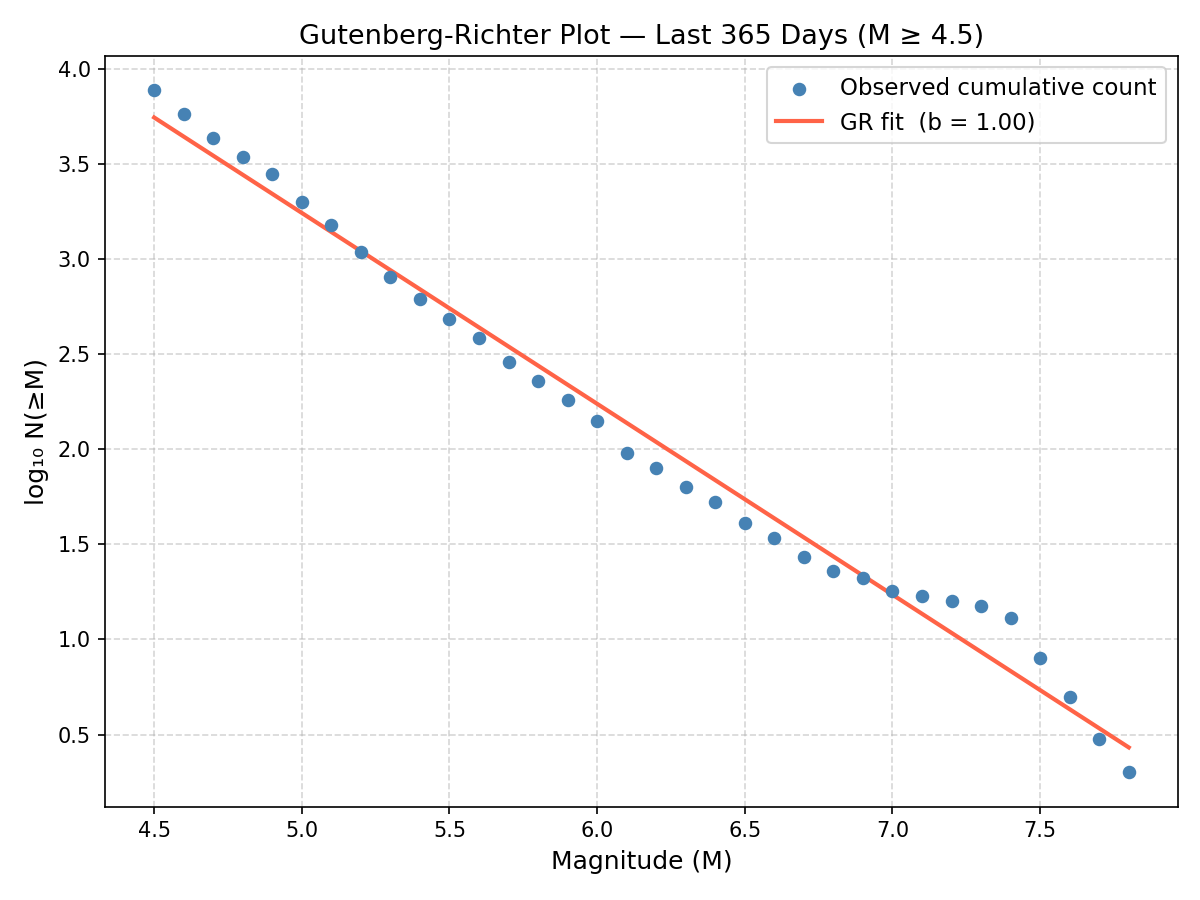
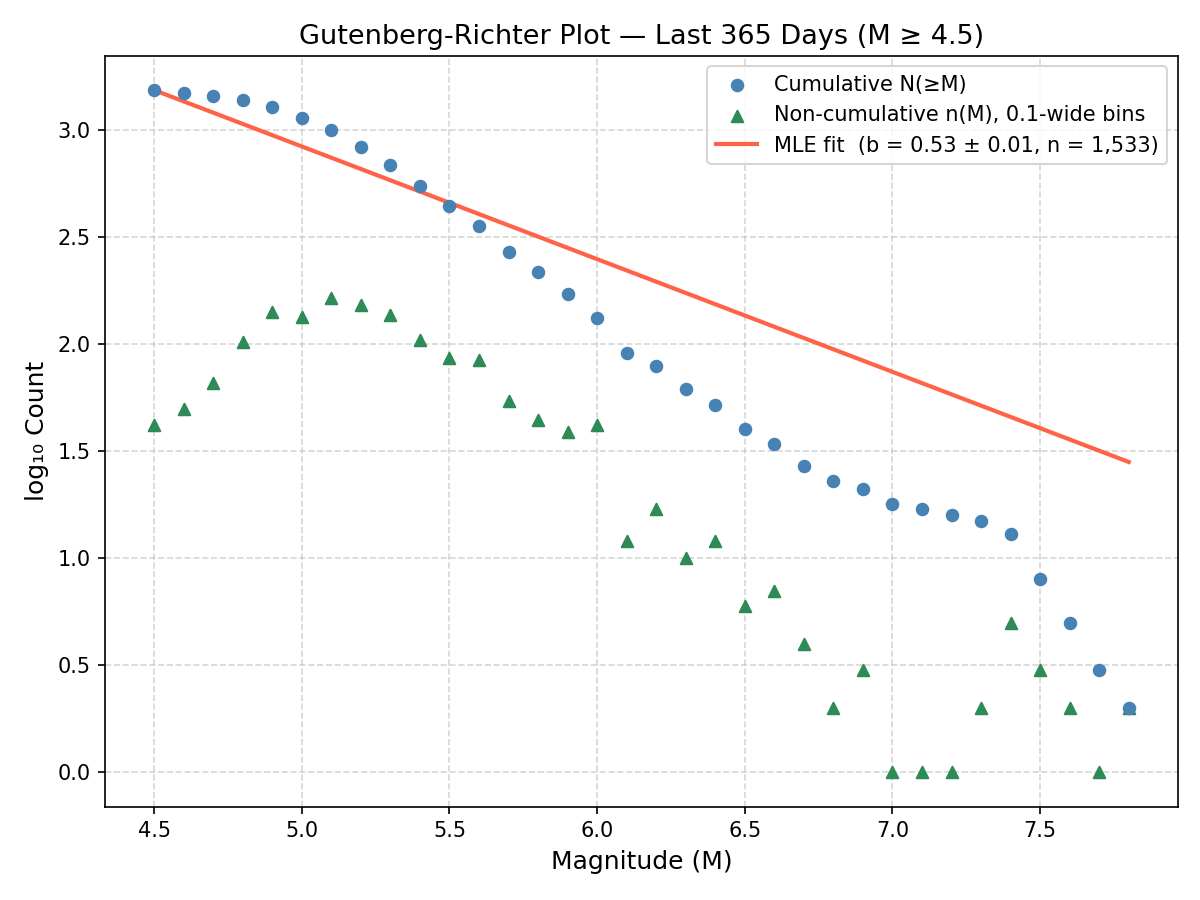
Swap the GR b-value fit to Aki-Utsu MLE with Shi-Bolt error and magType filtering
- plot_gutenberg_richter() now fits b via the Aki-Utsu maximum-likelihood
  estimator by default (FIT_METHOD = "mle" | "ols", computed from event
  magnitudes at/above Mc rather than binned counts), reports the Shi & Bolt
  (1982) standard error and n in the legend, and overlays a non-cumulative
  (unfit) frequency count for comparison against the cumulative curve.
- parse_to_dataframe() now captures magType; a new filter_by_magnitude_type()
  restricts the GR fit to the moment-magnitude family (MAG_TYPES, default
  mww/mwc/mwb/mwr/mw) and logs what got dropped. Filtering happens
  client-side after fetch, since the FDSN endpoint has no magType param.
  The map, depth histogram, aftershock series, and Benioff plot still see
  every event.
- Fit stats are written to gr_stats.json and archived into snapshots/
  alongside the images.
- README: Method section now describes the MLE/Shi-Bolt approach instead of
  np.polyfit, and the interactive-map line no longer claims a GitHub Pages
  deployment that isn't actually live — it now describes index.html and the
  GeoJSON viewer link accurately.
- Adds TODO 7 / roadmap item: fit ETAS to aftershock sequences instead of
  the current Omori-Utsu curve fit.

diff --git a/earthquake_explorer.py b/earthquake_explorer.py
@@ -32,6 +32,22 @@ import requests
 MIN_MAGNITUDE = 4.5    # only fetch quakes at or above this magnitude
 DAYS_BACK     = 365    # how many days of history to fetch
 
+# --- Gutenberg-Richter fit method -----------------------------------------------
+# "mle" uses the Aki-Utsu maximum-likelihood b-value estimator (recommended —
+# unlike the OLS fit it doesn't require binning the data, isn't skewed by
+# how the tail is binned, and has a known standard error). "ols" keeps the
+# original least-squares fit on the cumulative log-count curve for comparison.
+FIT_METHOD = "mle"   # "mle" | "ols"
+
+# --- Magnitude-type filter -------------------------------------------------------
+# The FDSN catalog mixes magnitude scales (Mww, Mb, Ml, Md, ...) computed by
+# different methods; fitting one b-value across mixed scales biases the
+# result. Only events whose magType is in this list are used for the
+# Gutenberg-Richter fit — everything else is still fetched and used by the
+# other plots (map, depth histogram, aftershock series, Benioff plot).
+# Set MAG_TYPES = None to disable the filter and use every event.
+MAG_TYPES = ("mww", "mwc", "mwb", "mwr", "mw")   # moment-magnitude family
+
 # --- World map background -----------------------------------------------------
 # GeoJSON country boundaries from Natural Earth (110 m resolution, public domain).
 # Downloaded once and cached locally so re-runs are instant.
@@ -173,6 +189,7 @@ def parse_to_dataframe(geojson: dict) -> pd.DataFrame:
         rows.append({
             "time":      dt,
             "magnitude": props["mag"],
+            "mag_type":  props.get("magType") or "unknown",
             "place":     props["place"],
             "longitude": coords[0],
             "latitude":  coords[1],
@@ -192,6 +209,32 @@ def parse_to_dataframe(geojson: dict) -> pd.DataFrame:
 
     print(f"    → DataFrame has {len(df)} rows × {len(df.columns)} columns")
     return df
+
+
+def filter_by_magnitude_type(df: pd.DataFrame, mag_types) -> pd.DataFrame:
+    """
+    Restrict to events whose magType is in mag_types (case-insensitive).
+
+    Used only for the Gutenberg-Richter fit, since mixing magnitude scales
+    (Mww, Mb, Ml, Md, ...) biases the b-value; the API has no server-side
+    parameter for this, so it's applied here after parsing. Pass
+    mag_types=None to skip filtering and keep every event.
+    """
+    if mag_types is None:
+        return df
+
+    allowed = {t.lower() for t in mag_types}
+    keep = df["mag_type"].str.lower().isin(allowed)
+    dropped = df.loc[~keep]
+
+    if len(dropped):
+        breakdown = ", ".join(
+            f"{mtype}={count}" for mtype, count in dropped["mag_type"].value_counts().items()
+        )
+        print(f"    → dropped {len(dropped)} event(s) outside MAG_TYPES "
+              f"{tuple(sorted(allowed))}: {breakdown}")
+
+    return df[keep].copy()
 
 
 # =============================================================================
@@ -341,63 +384,117 @@ def plot_world_map(df: pd.DataFrame, filename: str = "map_epicenters.png") -> No
 
 def plot_gutenberg_richter(
     df: pd.DataFrame, filename: str = "gutenberg_richter.png"
-) -> None:
+) -> dict:
     """
     Gutenberg-Richter (GR) frequency-magnitude plot.
 
     The GR relation states:   log10( N(≥M) ) = a − b·M
-    where N(≥M) is the number of earthquakes with magnitude ≥ M.
-    The 'b-value' (≈ 1 for most regions) describes how many small
-    quakes accompany each large one.  We estimate it by fitting a
-    straight line to the log10(cumulative count) vs. M curve.
+    where N(≥M) is the number of earthquakes with magnitude ≥ M.  Plots both
+    the cumulative distribution and the non-cumulative (per 0.1-wide bin)
+    counts, and fits the b-value from the cumulative curve using FIT_METHOD:
+
+      "mle"  Aki-Utsu maximum-likelihood estimator (default), computed
+             directly from the event magnitudes at or above the completeness
+             threshold Mc = MIN_MAGNITUDE — not from the binned counts —
+             with the Utsu (1965) correction for 0.1-wide binning:
+                 b_hat = log10(e) / (mean(M) - (Mc - dM/2))
+      "ols"  the original least-squares fit of log10(cumulative count)
+             vs. M, kept for comparison.
+
+    Either way, uncertainty is reported as the Shi & Bolt (1982) standard
+    error:
+        sigma_b = 2.30 * b^2 * sqrt( sum((M_i - mean(M))^2) / (n * (n - 1)) )
+
+    Returns a dict of fit statistics (method, mc, b, sigma_b, a, n).
     """
+    dM = 0.1                # magnitude binning interval
+    # NOTE: Mc reuses the query's magnitude floor, which assumes the MAG_TYPES
+    # subset is itself complete down to MIN_MAGNITUDE. It usually isn't — smaller
+    # events are less likely to have a moment-magnitude solution at all, so the
+    # filtered catalog thins out below its true completeness magnitude, which
+    # biases b downward. Watch for a rollover in the non-cumulative curve below
+    # the fit line: if you see one, raise Mc (or MIN_MAGNITUDE) until it's gone.
+    mc = MIN_MAGNITUDE      # completeness threshold
+
     # Build a range of magnitude bins from the data minimum to maximum
     m_min = math.floor(df["magnitude"].min() * 10) / 10   # round down to 0.1
     m_max = math.ceil(df["magnitude"].max()  * 10) / 10   # round up   to 0.1
-    magnitudes = np.arange(m_min, m_max + 0.1, 0.1)       # step = 0.1
+    magnitudes = np.arange(m_min, m_max + dM, dM)          # step = dM
 
-    # For each magnitude threshold M, count how many quakes have mag ≥ M
-    counts = np.array(
+    # Cumulative counts: for each magnitude threshold M, count quakes with mag ≥ M
+    cum_counts = np.array(
         [(df["magnitude"] >= m).sum() for m in magnitudes], dtype=float
     )
-
-    # Keep only bins with at least one earthquake so log10 doesn't blow up
-    valid = counts > 0
+    valid       = cum_counts > 0   # keep only bins with ≥1 quake so log10 doesn't blow up
     mag_valid   = magnitudes[valid]
-    log10_count = np.log10(counts[valid])
+    log10_cum   = np.log10(cum_counts[valid])
 
-    # Fit a degree-1 polynomial (straight line) to the log10 counts vs magnitude.
-    # np.polyfit returns [slope, intercept]; slope is −b in the GR relation.
-    coeffs = np.polyfit(mag_valid, log10_count, 1)
-    b_value = -coeffs[0]          # b-value is the negative of the slope
-    a_value =  coeffs[1]
+    # Non-cumulative counts: events falling in each 0.1-wide bin (not fitted —
+    # shown only to compare against the cumulative curve used for the fit)
+    bin_edges = np.append(magnitudes, magnitudes[-1] + dM)
+    incr_counts, _ = np.histogram(df["magnitude"], bins=bin_edges)
+    incr_valid = incr_counts > 0
+    mag_incr   = magnitudes[incr_valid]
+    log10_incr = np.log10(incr_counts[incr_valid])
+
+    # --- b-value fit -------------------------------------------------------
+    events_at_mc = df.loc[df["magnitude"] >= mc, "magnitude"]
+    n      = len(events_at_mc)
+    mean_m = events_at_mc.mean()
+
+    if FIT_METHOD == "mle":
+        b_value = math.log10(math.e) / (mean_m - (mc - dM / 2))
+        a_value = math.log10(n) + b_value * mc   # anchors the line at (mc, log10 n)
+    elif FIT_METHOD == "ols":
+        # np.polyfit returns [slope, intercept]; slope is −b in the GR relation.
+        coeffs  = np.polyfit(mag_valid, log10_cum, 1)
+        b_value = -coeffs[0]
+        a_value =  coeffs[1]
+    else:
+        raise ValueError(f"Unknown FIT_METHOD: {FIT_METHOD!r} (expected 'mle' or 'ols')")
+
+    # Shi & Bolt (1982) standard error of the b-value
+    sigma_b = 2.30 * b_value ** 2 * math.sqrt(
+        np.sum((events_at_mc - mean_m) ** 2) / (n * (n - 1))
+    )
 
     # Evaluate the fitted line at a smooth set of magnitude values
     fit_x = np.linspace(mag_valid.min(), mag_valid.max(), 200)
-    fit_y = np.polyval(coeffs, fit_x)
+    fit_y = a_value - b_value * fit_x
 
     fig, ax = plt.subplots(figsize=(8, 6))
 
-    ax.scatter(mag_valid, log10_count, color="steelblue", s=30,
-               label="Observed cumulative count", zorder=3)
+    ax.scatter(mag_valid, log10_cum, color="steelblue", s=30, marker="o",
+               label="Cumulative N(≥M)", zorder=3)
+    ax.scatter(mag_incr, log10_incr, color="seagreen", s=30, marker="^",
+               label="Non-cumulative n(M), 0.1-wide bins", zorder=2)
 
     ax.plot(fit_x, fit_y, color="tomato", linewidth=2,
-            label=f"GR fit  (b = {b_value:.2f})")
+            label=f"{FIT_METHOD.upper()} fit  (b = {b_value:.2f} ± {sigma_b:.2f}, n = {n:,})")
 
     ax.set_xlabel("Magnitude (M)", fontsize=12)
-    ax.set_ylabel("log₁₀ N(≥M)", fontsize=12)
+    ax.set_ylabel("log₁₀ Count", fontsize=12)
     region_label = f" — {REGION_NAME}" if REGION_NAME else ""
     ax.set_title(
         f"Gutenberg-Richter Plot{region_label} — Last {DAYS_BACK} Days (M ≥ {MIN_MAGNITUDE})",
         fontsize=13,
     )
-    ax.legend(fontsize=11)
+    ax.legend(fontsize=10)
     ax.grid(True, linestyle="--", alpha=0.5)
 
     plt.tight_layout()
     plt.savefig(filename, dpi=150)
     plt.close(fig)
     print(f"    saved → {filename}")
+
+    return {
+        "method":  FIT_METHOD,
+        "mc":      mc,
+        "b":       b_value,
+        "sigma_b": sigma_b,
+        "a":       a_value,
+        "n":       n,
+    }
 
 
 def plot_depth_histogram(
@@ -875,19 +972,27 @@ def main():
     prefix = f"{REGION_NAME.lower().replace(' ', '_')}_" if REGION_NAME else ""
     print("[4/4] Generating plots …", flush=True)
 
-    map_file     = f"{prefix}map_epicenters.png"
-    gr_file      = f"{prefix}gutenberg_richter.png"
-    depth_file   = f"{prefix}depth_histogram.png"
-    geojson_file = f"{prefix}earthquakes.geojson"
+    map_file      = f"{prefix}map_epicenters.png"
+    gr_file       = f"{prefix}gutenberg_richter.png"
+    gr_stats_file = f"{prefix}gr_stats.json"
+    depth_file    = f"{prefix}depth_histogram.png"
+    geojson_file  = f"{prefix}earthquakes.geojson"
 
-    plot_world_map(df,         filename=map_file)
-    plot_gutenberg_richter(df, filename=gr_file)
-    plot_depth_histogram(df,   filename=depth_file)
+    plot_world_map(df, filename=map_file)
+
+    # GR fit uses only consistently-typed magnitudes (see MAG_TYPES); the map,
+    # depth histogram, aftershock series, and Benioff plot use every event.
+    gr_df = filter_by_magnitude_type(df, MAG_TYPES)
+    gr_stats = plot_gutenberg_richter(gr_df, filename=gr_file)
+    with open(gr_stats_file, "w") as f:
+        json.dump(gr_stats, f, indent=2)
+
+    plot_depth_histogram(df, filename=depth_file)
 
     # --- interactive GeoJSON ---
     save_geojson(df, filename=geojson_file)
 
-    for f in (map_file, gr_file, depth_file, geojson_file):
+    for f in (map_file, gr_file, gr_stats_file, depth_file, geojson_file):
         archive_snapshot(f, date_stamp)
 
     # --- aftershock time series (TODO 3) ---
@@ -974,3 +1079,12 @@ if __name__ == "__main__":
 #   the coregistration/unwrapping step is nontrivial), and a way to
 #   reconcile the interferogram's phase-derived location/extent with the
 #   point-source catalog values.
+
+# TODO 7 – Fit ETAS to the aftershock sequences instead of just plotting them
+#   Replace plot_aftershock_series()'s two-parameter Omori-Utsu curve fit
+#   with a real Epidemic-Type Aftershock Sequence (ETAS) model: maximize the
+#   point-process log-likelihood over (mu, K, alpha, c, p) given the observed
+#   event times and magnitudes, instead of log-log regression on a binned
+#   daily rate. A fitted ETAS model gives testable forecasts — e.g. expected
+#   event counts in a future time window — that can be scored against what
+#   the catalog actually recorded, which the current curve fit can't do.

diff --git a/README.md b/README.md
@@ -10,13 +10,17 @@ The [USGS Earthquake Hazards Program](https://earthquake.usgs.gov/fdsnws/event/1
 
 ## Method
 
-For each magnitude threshold `M` in the observed range (step 0.1), count the earthquakes with magnitude ≥ `M`, giving the cumulative distribution `N(≥M)`. Fit a straight line to `log10(N(≥M))` versus `M` by least squares (`np.polyfit`, degree 1); the fitted slope is `−b`, the intercept is `a`. See `plot_gutenberg_richter()` in [earthquake_explorer.py](earthquake_explorer.py).
+Only events from the moment-magnitude family (`MAG_TYPES`, e.g. Mww/Mwc/Mwb/Mwr/Mw) are used for the fit — mixing magnitude scales biases a single b-value, and the FDSN catalog reports several. The b-value is then estimated by the Aki-Utsu maximum-likelihood estimator (`FIT_METHOD = "mle"`, the default), computed directly from event magnitudes at or above the completeness threshold `Mc` (not from binned counts), with the Utsu (1965) correction for 0.1-wide binning:
+
+`b_hat = log10(e) / (mean(M) - (Mc - dM/2))`
+
+Uncertainty is the Shi & Bolt (1982) standard error, `sigma_b = 2.30 * b^2 * sqrt(sum((M_i - mean(M))^2) / (n * (n - 1)))`. The original ordinary-least-squares fit on binned cumulative counts is kept available via `FIT_METHOD = "ols"` for comparison. See `plot_gutenberg_richter()` in [earthquake_explorer.py](earthquake_explorer.py).
 
 ## Figure
 
 ![Gutenberg-Richter plot](gutenberg_richter.png)
 
-Observed cumulative counts (blue) with the least-squares GR fit (red); the legend reports the fitted b-value for the current data window.
+Cumulative counts `N(≥M)` (blue circles) and non-cumulative per-bin counts `n(M)` (green triangles, not fit) with the fitted GR line (red); the legend reports the fitted b-value, its Shi & Bolt standard error, and the event count `n` used for the fit.
 
 ## Other analyses
 
@@ -54,7 +58,7 @@ Projects events onto a configurable trench-to-backarc transect (`BENIOFF_TRANSEC
 
 ### Interactive map
 
-A Leaflet map reading `earthquakes.geojson`, colored by magnitude with a popup per event — live at https://github.com/dzhangg/GroundTruth/blob/main/earthquakes.geojson.
+`index.html` renders the exported `earthquakes.geojson` as a Leaflet map, colored by magnitude with a popup per event. Run it locally (see below) or deploy `index.html` via GitHub Pages to host it live. The raw `earthquakes.geojson` also renders on its own through GitHub's native GeoJSON viewer: https://github.com/dzhangg/GroundTruth/blob/main/earthquakes.geojson.
 
 ## Running it
 
@@ -70,6 +74,7 @@ Every run also archives a dated copy of its outputs under `snapshots/` for track
 ## Roadmap
 
 - [ ] Pair catalog events with InSAR coseismic interferograms: for M6.5+ events, pull pre/post-event Sentinel-1 SAR pairs from the [Alaska Satellite Facility](https://asf.alaska.edu/) archive, generate a coseismic interferogram, and compare the deformation fringe pattern's location and inferred fault geometry against the catalog epicenter and depth.
+- [ ] Fit ETAS (Epidemic-Type Aftershock Sequence) models to aftershock sequences instead of just plotting them: maximize the point-process log-likelihood over `(mu, K, alpha, c, p)` to get real parameters and testable forecasts (e.g. expected event counts in a future window, scoreable against what the catalog records), rather than the current two-parameter Omori-Utsu curve fit.
 
 ## License
 
